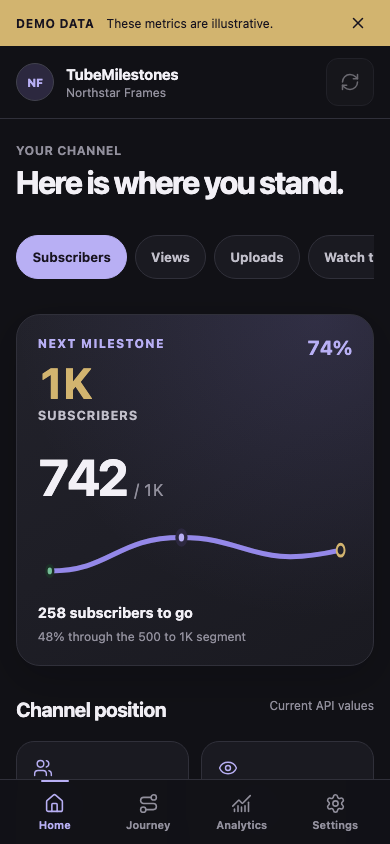
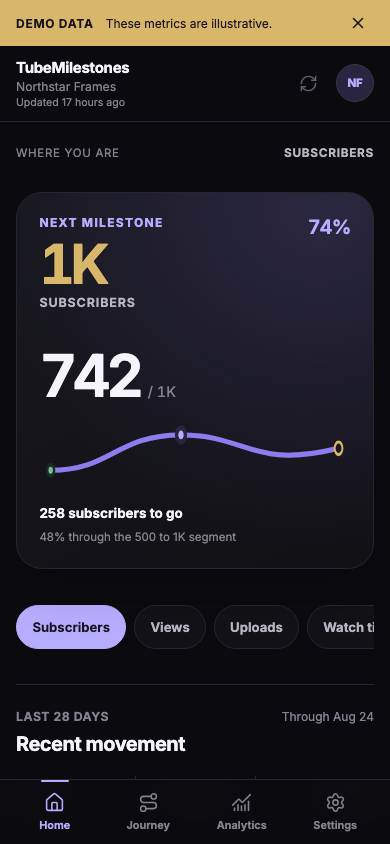
test: expand responsive and visual regression coverage

diff --git a/e2e/mobile.spec.ts b/e2e/mobile.spec.ts
@@ -8,58 +8,116 @@ async function expectNoHorizontalOverflow(page: Page) {
   expect(dimensions.document).toBeLessThanOrEqual(dimensions.viewport + 1);
 }
 
-test('public landing renders without OAuth and fits the viewport', async ({ page }) => {
+test('public landing explains the unconfigured cloud boundary', async ({ page }) => {
   await page.goto('/');
-
   await expect(
     page.getByRole('heading', {
       name: 'Your YouTube journey, one milestone at a time.',
     }),
   ).toBeVisible();
-  await expect(page.getByRole('button', { name: 'Connect YouTube' })).toBeDisabled();
   await expect(
-    page.getByText('Google OAuth is not configured for this deployment.'),
+    page.getByRole('button', { name: 'Continue with Google' }),
+  ).toBeDisabled();
+  await expect(page.getByText(/Cloud connection is not configured/)).toBeVisible();
+  await expectNoHorizontalOverflow(page);
+});
+
+test('signed-in unconnected fixture shows the separate YouTube authorization step', async ({
+  page,
+}) => {
+  await page.goto('/#/?demo=unconnected');
+  await expect(
+    page.getByRole('heading', { name: 'Connect your YouTube channel.' }),
+  ).toBeVisible();
+  await expect(page.getByRole('button', { name: 'Connect YouTube' })).toBeEnabled();
+  await expect(
+    page.getByText(/cannot edit, upload, or delete YouTube content/),
   ).toBeVisible();
   await expectNoHorizontalOverflow(page);
 });
 
-test('bottom navigation works and Journey switches metrics', async ({ page }) => {
+test('connected Home is milestone-first', async ({ page }) => {
   await page.goto('/#/?demo=small');
   await expect(page.getByText('DEMO DATA')).toBeVisible();
+  await expect(page.getByRole('heading', { name: '1K' })).toBeVisible();
+  await expect(page.getByText('258 subscribers to go')).toBeVisible();
+  await expect(page.getByRole('heading', { name: 'Recent movement' })).toBeVisible();
+  await expectNoHorizontalOverflow(page);
+});
 
-  await page.getByRole('link', { name: 'Journey', exact: true }).click();
+test('Journey uses one differentiated path and switches metrics', async ({ page }) => {
+  await page.goto('/#/journey?demo=growing');
   await expect(
     page.getByRole('heading', { name: 'Your milestone journey.' }),
   ).toBeVisible();
   await page.getByRole('button', { name: 'Views' }).click();
-  await expect(page.getByText('48.2K now')).toBeVisible();
+  await expect(page.getByText('1.82M now')).toBeVisible();
+  await expect(page.getByText('Next checkpoint')).toBeVisible();
   await expectNoHorizontalOverflow(page);
 });
 
-test('Analytics range selector updates fixture summaries', async ({ page }) => {
+test('28D Analytics prioritizes one value and simple detail rows', async ({ page }) => {
   await page.goto('/#/analytics?demo=small');
-  await expect(
-    page.getByRole('heading', { name: 'Recent channel movement.' }),
-  ).toBeVisible();
-
-  const sevenDays = page.getByRole('button', { name: '7D' });
-  await sevenDays.click();
-  await expect(sevenDays).toHaveAttribute('aria-pressed', 'true');
-  await expect(page.getByText(/^Last 7 days:/)).toBeVisible();
+  await expect(page.getByRole('heading', { name: 'Views' })).toBeVisible();
+  await expect(page.locator('.analytics-value > span')).toHaveText('28D total');
+  await expect(page.locator('.analytics-details')).toContainText('Net subscribers');
   await expectNoHorizontalOverflow(page);
 });
 
-test('Settings requires confirmation before disconnecting', async ({ page }) => {
-  await page.goto('/#/settings?demo=small');
-  await expect(page.getByRole('heading', { name: 'Settings.' })).toBeVisible();
+test('365D Analytics loads unified mocked archive history', async ({ page }) => {
+  await page.goto('/#/analytics?demo=archive');
+  await page.getByRole('button', { name: '365D' }).click();
+  await expect(page.locator('.analytics-value > span')).toHaveText('365D total');
+  await expect(page.locator('.analytics-chart')).toBeVisible();
+  await expectNoHorizontalOverflow(page);
+});
 
+test('archive failure keeps recent Analytics visible', async ({ page }) => {
+  await page.goto('/#/analytics?demo=archive-partial');
+  await page.getByRole('button', { name: '365D' }).click();
+  await expect(
+    page.getByText(/Older history is temporarily unavailable/),
+  ).toBeVisible();
+  await expect(page.locator('.analytics-value > span')).toHaveText('365D total');
+  await expectNoHorizontalOverflow(page);
+});
+
+test('Settings is grouped and confirms disconnect semantics', async ({ page }) => {
+  await page.goto('/#/settings?demo=small');
+  await expect(page.getByRole('heading', { name: 'Settings' })).toBeVisible();
+  await expect(page.getByText('User entered')).toBeVisible();
   await page.getByRole('button', { name: 'Disconnect' }).click();
   const dialog = page.getByRole('dialog', { name: 'Disconnect YouTube?' });
-  await expect(dialog).toBeVisible();
-  await expect(
-    dialog.getByRole('button', { name: 'Disconnect and delete' }),
-  ).toBeVisible();
+  await expect(dialog).toContainText('It does not delete anything from YouTube.');
   await dialog.getByRole('button', { name: 'Keep connected' }).click();
   await expect(dialog).toBeHidden();
+  await expectNoHorizontalOverflow(page);
+});
+
+test('reauthorization and typed API errors stay contextual', async ({ page }) => {
+  await page.goto('/#/?demo=reauth');
+  await expect(
+    page.getByText('Reconnect YouTube to refresh your progress.'),
+  ).toBeVisible();
+  await expect(
+    page.getByRole('button', { name: 'Reconnect', exact: true }),
+  ).toBeVisible();
+  await page.goto('/#/?demo=api-error');
+  await page.reload();
+  await expect(
+    page.getByText('YouTube data is temporarily unavailable.'),
+  ).toBeVisible();
+  await expect(page.getByRole('heading', { name: '1K' })).toBeVisible();
+  await expectNoHorizontalOverflow(page);
+});
+
+test('deletion-pending fixture makes unavailable data explicit', async ({ page }) => {
+  await page.goto('/#/?demo=deletion-pending');
+  await expect(
+    page.getByRole('heading', { name: 'Your saved YouTube data is being removed.' }),
+  ).toBeVisible();
+  await expect(
+    page.getByText(/Supabase, Vault, and the encrypted archive/),
+  ).toBeVisible();
   await expectNoHorizontalOverflow(page);
 });

diff --git a/e2e/desktop.spec.ts b/e2e/desktop.spec.ts
@@ -1,19 +1,60 @@
-import { expect, test } from '@playwright/test';
+import { expect, test, type Page } from '@playwright/test';
 
-test('desktop Journey uses the sidebar composition without overflow', async ({
-  page,
-}) => {
-  await page.goto('/#/journey?demo=growing');
-
-  await expect(
-    page.getByRole('heading', { name: 'Your milestone journey.' }),
-  ).toBeVisible();
-  await expect(page.locator('.desktop-sidebar')).toBeVisible();
-  await expect(page.locator('.mobile-navigation-wrap')).toBeHidden();
-
+async function expectNoHorizontalOverflow(page: Page) {
   const dimensions = await page.evaluate(() => ({
     viewport: window.innerWidth,
     document: Math.max(document.documentElement.scrollWidth, document.body.scrollWidth),
   }));
   expect(dimensions.document).toBeLessThanOrEqual(dimensions.viewport + 1);
+}
+
+test('desktop Home and Journey use the sidebar composition without overflow', async ({
+  page,
+}) => {
+  await page.goto('/#/?demo=growing');
+
+  await expect(page.getByRole('heading', { name: '25K' })).toBeVisible();
+  await expect(page.locator('.desktop-sidebar')).toBeVisible();
+  await expect(page.locator('.mobile-navigation-wrap')).toBeHidden();
+
+  await page.getByRole('link', { name: 'Journey', exact: true }).click();
+
+  await expect(
+    page.getByRole('heading', { name: 'Your milestone journey.' }),
+  ).toBeVisible();
+
+  await expectNoHorizontalOverflow(page);
+});
+
+test('responsive matrix is overflow-free in dark and light themes', async ({
+  page,
+}) => {
+  const viewports = [
+    { width: 360, height: 800 },
+    { width: 375, height: 812 },
+    { width: 390, height: 844 },
+    { width: 412, height: 915 },
+    { width: 430, height: 932 },
+    { width: 768, height: 1024 },
+    { width: 1440, height: 900 },
+  ];
+
+  for (const viewport of viewports) {
+    await page.setViewportSize(viewport);
+    await page.goto('/#/?demo=small');
+    await expect(page.getByRole('heading', { name: '1K' })).toBeVisible();
+    await expectNoHorizontalOverflow(page);
+  }
+
+  await page.setViewportSize({ width: 390, height: 844 });
+  await page.goto('/#/settings?demo=small');
+  await page.reload();
+  await page.getByRole('radio', { name: 'Light' }).click();
+  await expect(page.locator('html')).toHaveAttribute('data-theme', 'light');
+  await expectNoHorizontalOverflow(page);
+
+  await page.setViewportSize({ width: 768, height: 1024 });
+  await page.getByRole('link', { name: 'Analytics', exact: true }).click();
+  await expect(page.getByRole('heading', { name: 'Views' })).toBeVisible();
+  await expectNoHorizontalOverflow(page);
 });

diff --git a/playwright.config.ts b/playwright.config.ts
@@ -33,6 +33,16 @@ export default defineConfig({
       },
     },
     {
+      name: 'mobile-wide-chromium',
+      testMatch: /mobile\.spec\.ts/,
+      use: {
+        browserName: 'chromium',
+        viewport: { width: 430, height: 932 },
+        hasTouch: true,
+        isMobile: true,
+      },
+    },
+    {
       name: 'desktop-chromium',
       testMatch: /desktop\.spec\.ts/,
       use: {
